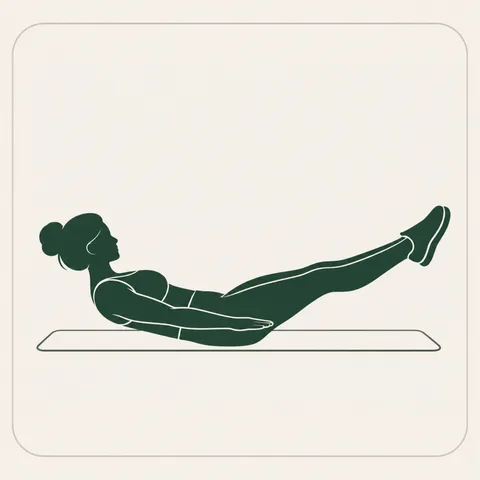
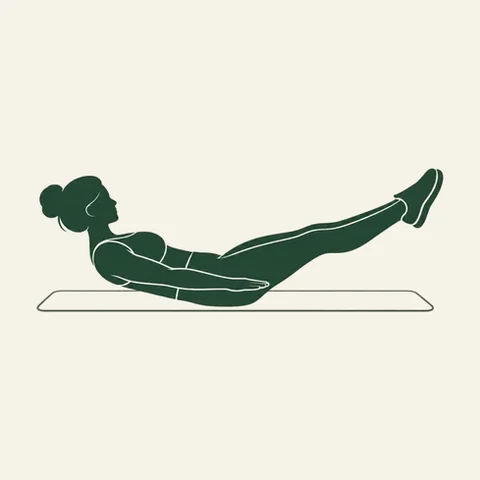
Offline and Resume apply instantly with a confirmation; clean square exercise pictures
Claude-Session: https://claude.ai/code/session_01QjyzJbQJbCaLZTFvkX9yb6

diff --git a/index.html b/index.html
@@ -1111,7 +1111,7 @@ trainingGuides['standing dumbbell overhead press']={areas:['shoulders','arms','c
 trainingGuides['one-arm dumbbell row']={areas:['back','arms'],why:'Works your upper back and arms one side at a time.',steps:['Stand with one hand on a sturdy bench, feet staggered and knees soft. Keep your back flat.','Let a dumbbell hang from your other hand, then pull it towards your hip, squeezing your shoulder blade back.','Lower slowly. Finish all reps, then switch sides.'],cue:'Keep your hips square and avoid twisting. Stop for back or shoulder discomfort.',url:''};
 trainingGuides['hollow body hold']={areas:['core'],why:'Builds deep core strength and trunk control.',steps:['Lie on your back on a mat, arms by your sides or overhead.','Brace and press your lower back gently into the mat. Lift your shoulders and legs a little off the floor. Higher legs are easier.','Hold while breathing steadily, then lower with control.'],cue:'If your lower back arches or aches, bend your knees or raise your legs higher. Dead bug is the easier choice.',url:''};
 trainingGuides['plank shoulder taps']={areas:['core','shoulders'],why:'Trains core stability while your arms move.',steps:['Start in a high plank, hands under shoulders, feet a little wider than hip width.','Brace, then tap one hand to the opposite shoulder without rocking your hips.','Return the hand and tap the other side. Go slowly.'],cue:'Make it easier with your hands on a bench or wall. Stop for wrist, shoulder or back discomfort.',url:''};
-const trainingArtImg={'standing dumbbell overhead press':'assets/training/overhead-press.webp','one-arm dumbbell row':'assets/training/one-arm-row.webp','side kicks':'assets/training/side-kicks.webp','leg press':'assets/training/leg-press.webp','hollow body hold':'assets/training/hollow-hold.webp','plank shoulder taps':'assets/training/plank-shoulder-taps.webp','cable crunch':'assets/training/cable-crunch.webp'};
+const trainingArtImg={'chest press':'assets/training/chest-press.webp','chest-supported row':'assets/training/chest-supported-row.webp','dead bug':'assets/training/dead-bug.webp','standing dumbbell overhead press':'assets/training/overhead-press.webp','one-arm dumbbell row':'assets/training/one-arm-row.webp','side kicks':'assets/training/side-kicks.webp','leg press':'assets/training/leg-press.webp','hollow body hold':'assets/training/hollow-hold.webp','plank shoulder taps':'assets/training/plank-shoulder-taps.webp','cable crunch':'assets/training/cable-crunch.webp'};
 const trainingArt={
  'leg press':['lower-a',45,280,440,325],'db romanian deadlift':['lower-a',540,250,435,350],'glute bridge':['lower-a',45,750,440,275],'seated leg curl':['lower-a',550,700,410,325],'calf raises':['lower-a',400,1060,340,415],
  'lat pulldown':['upper-a',55,270,430,365],'seated row':['upper-a',540,270,440,365],'chest press':['upper-a',50,720,440,390],'lateral raise':['upper-a',540,720,430,390],'dead bug':['upper-a',100,1190,820,245],
@@ -1367,7 +1367,7 @@ app.addEventListener('click',e=>{const b=e.target.closest('[data-action^="missio
 .app .wx2 .wx2-thumb{width:72px;flex:none;border-radius:12px;background:#f6f2e6;border:1px solid rgba(41,58,47,.12);overflow:hidden}.app .wx2 .wx2-thumb svg{width:100%;height:auto;display:block}
 .app .workout-add{border:1px dashed var(--border)!important;border-radius:16px!important;background:transparent!important;box-shadow:none!important}
 .app .workout-add>summary{color:var(--accent);font-weight:600}
-@media(max-width:359px){.app .wx2 .wx2-steps{grid-template-columns:1fr}.app .wx2 .wx2-hero h1{font-size:26px}.app .wx2 .wx2-art{width:104px}}
+@media(max-width:359px){.app .wx2 .wx2-steps{grid-template-columns:1fr}.app .wx2 .wx2-hero h1{font-size:26px}.app .wx2 .wx2-art{width:104px;height:104px}}
 @media(prefers-reduced-motion:reduce){.app .wx2 .wx2-set{transition:none}}
 
 /* WX3 (v121): training v2 */
@@ -1386,7 +1386,7 @@ app.addEventListener('click',e=>{const b=e.target.closest('[data-action^="missio
 .app .wx3 .wx3-rvs{display:flex;flex-direction:column;gap:8px;margin-bottom:10px}
 .app .wx3 .wx3-rv{display:flex!important;justify-content:space-between;align-items:center;gap:10px;width:100%!important;min-height:56px;padding:10px 14px!important;border-radius:14px!important;border:1px solid var(--border)!important;background:var(--card)!important;color:var(--text)!important;text-align:left;box-shadow:none!important}
 .app .wx3 .wx3-rv span{display:flex;flex-direction:column;gap:2px;min-width:0}.app .wx3 .wx3-rv b{font-weight:600;font-size:15px}.app .wx3 .wx3-rv small{font-size:13px;color:var(--muted)}.app .wx3 .wx3-rv em{font-style:normal;font-size:13px;color:var(--muted);white-space:nowrap}
-.app .wx2-art img{width:100%;height:auto;max-height:136px;object-fit:contain;display:block}
+.app .wx2 .wx2-art{width:132px;height:132px;aspect-ratio:1;align-self:center;border:0;background:#f5f1e8;border-radius:16px}.app .wx2-art img{width:100%;height:100%;object-fit:contain;display:block}
 .app .exercise-soft-art img{max-width:100%;height:auto;display:block}
 .wx3-rest{position:fixed;inset:0;z-index:2147483000;display:flex;flex-direction:column;align-items:center;justify-content:center;gap:22px;padding:24px;background:#f4f1e8;color:#26352c;font-family:system-ui,-apple-system,sans-serif}
 .wx3-rest.dark{background:#101c16;color:#e6ebe3}
@@ -1427,6 +1427,7 @@ app.addEventListener('click',e=>{const b=e.target.closest('[data-action^="missio
 .app .wx3-week .lbl{font-size:13px;color:var(--muted);white-space:nowrap}.app .wx3-week .val{font-size:18px;font-weight:600;white-space:nowrap;margin-bottom:4px}.app .wx3-week .val small{font-size:13px;font-weight:400;color:var(--muted)}
 .app .wx3-seg{display:flex;gap:4px}.app .wx3-seg i{flex:1;height:6px;border-radius:3px;background:var(--border)}.app .wx3-seg i.on{background:var(--accent)}
 .app .wx2-xp{white-space:nowrap;flex:none}.app .wx3-hc-top h2{min-width:0}
+.wx3-toast{position:fixed;left:50%;top:max(14px,env(safe-area-inset-top));transform:translateX(-50%);z-index:2147482000;max-width:calc(100vw - 32px);padding:12px 18px;border-radius:999px;background:#244b3b;color:#fffdf8;font:600 14px/1.3 system-ui,sans-serif;box-shadow:0 6px 20px rgba(0,0,0,.25);text-align:center}.app.dark~.wx3-toast,body:has(.app.dark) .wx3-toast{background:#b9c9b4;color:#14221b}
 .app .wx3-duo{display:flex;gap:10px}.app .wx3-duo .concept-row{flex:1;margin:0 0 4px;min-width:0}
 @media(prefers-reduced-motion:reduce){.wx3-ring .fg{transition:none}}
 `;document.head.append(st)}
@@ -1451,6 +1452,7 @@ const wx3Hold=n=>/hold|\(seconds\)/i.test(n),wx3Bw=n=>/^(Dead bug|Hollow body ho
 const wx3Fmt=n=>String(Math.round(Number(n)*10)/10);
 function wx3Compile(sets,name){if(!sets.length)return '';const unit=wx3Hold(name||'')?' s':'',loads=sets.map(s=>s.load==null||s.load===''||Number.isNaN(Number(s.load))?null:Number(s.load));if(loads.every(l=>l===loads[0]))return (loads[0]==null?'':wx3Fmt(loads[0])+' kg · ')+sets.map(s=>s.reps).join(', ')+unit;return sets.map((s,k)=>(loads[k]==null?'':wx3Fmt(loads[k])+' × ')+s.reps).join(', ')+unit}
 function wx3Val(d,i,j){const key=i+'-'+j;if(d.values[key])return d.values[key];const pk=i+'-'+(j-1);if(j>0&&d.values[pk])return {...d.values[pk]};const last=previousWorkoutSet(wx3Items(d)[i][0]);return {reps:last?String(last.reps):'',load:last&&last.load!=null?String(last.load):''}}
+document.addEventListener('raikiba-offline-changed',ev=>{try{const on=!!(ev.detail&&ev.detail.paused);render();document.querySelectorAll('.wx3-toast').forEach(x=>x.remove());const t=document.createElement('div');t.className='wx3-toast';t.setAttribute('role','status');t.textContent=on?'Offline mode on. Training is paused.':'Back online. Training is on again.';document.body.append(t);setTimeout(()=>t.remove(),2600)}catch(e){console.error(e)}});
 const wx3Pause=()=>{try{const M=window.LevelUpMissions,t=C.date();return (M&&M.load&&(M.load().pauses||[]).find(p=>p.from<=t&&(!p.to||p.to>=t)))||null}catch(e){return null}};
 const wx3RestOff=()=>{try{return localStorage.getItem('raikiba-rest-off')==='1'}catch(e){return false}};
 let wx3RestState=null,wx3RoutineTab=0,wx3ProgressTab=0;
@@ -1503,8 +1505,8 @@ function nextFoundation(){const d=activeDraft();if(d)return d.plan;const last=tr
 function conceptRow(title,copy,destination){return `<button type="button" class="concept-row" data-action="open" data-view="${destination}"><span><strong>${title}</strong>${copy?`<small>${copy}</small>`:''}</span><span aria-hidden="true">→</span></button>`}
 function conceptXP(){const x=C.trainingXP(state);return `<div class="concept-xp"><div><span>Level ${x.level}</span><span>${x.towards} / 100 XP</span></div><div class="concept-meter" role="progressbar" aria-label="Training XP towards next level" aria-valuemin="0" aria-valuemax="100" aria-valuenow="${x.towards}"><i style="width:${x.towards}%"></i></div></div>`}
 function conceptTrainingCard(home=false){const d=activeDraft(),next=nextFoundation(),f=foundationDrafts[next],name=f.title,n=d?(d.v===2?wx3Items(d).length:3):(kneeActive()?3:4),index=d?missionPosition(d):0,P=wx3Pause();if(home){const copy=d?(index>=n?'Review your recorded sets and finish.':`Exercise ${index+1} of ${n} · ${escape(workoutItems(d)[index][0])}`):'Choose your workout or record walking and cardio.';return `<section class="concept-feature"><p class="micro">${d?'IN PROGRESS':'TRAINING'}</p><h2>${d?'Continue '+name:'Your next training session'}</h2><p>${copy}</p>${open(d?'Resume workout':'Open training',d?'workout-active':'training')}</section>`}
- if(d)return `<section class="wx3-card"><p class="wx3-eye"><span>IN PROGRESS</span></p><h2>${name}</h2><p class="sub">${escape(f.purpose)} · ${index>=n?'Review and finish':`Exercise ${index+1} of ${n}, ${escape(workoutItems(d)[index][0])}`}</p>${open('Resume workout','workout-active').replace(/class="/,'class="wx3-go ')}</section>`;
- if(P){const why=({holiday:'Holiday',injury:'Injury'})[P.reason]||'Break';return `<section class="wx3-card paused"><p class="wx3-eye"><span>PAUSED</span></p><h2>Training Paused</h2><p class="sub">(${why}). Your progress and rewards are kept.</p><button type="button" class="wx3-go" disabled>Start workout</button></section>`}
+ if(d&&!P)return `<section class="wx3-card"><p class="wx3-eye"><span>IN PROGRESS</span></p><h2>${name}</h2><p class="sub">${escape(f.purpose)} · ${index>=n?'Review and finish':`Exercise ${index+1} of ${n}, ${escape(workoutItems(d)[index][0])}`}</p>${open('Resume workout','workout-active').replace(/class="/,'class="wx3-go ')}</section>`;
+ if(P){const why=({holiday:'Holiday',injury:'Injury'})[P.reason]||'Break';return `<section class="wx3-card paused"><p class="wx3-eye"><span>PAUSED</span></p><h2>Training Paused</h2><p class="sub">(${why}). Your progress and rewards are kept.${d?' Your workout in progress is saved.':''}</p><button type="button" class="wx3-go" disabled>Start workout</button></section>`}
  return `<section class="wx3-card"><p class="wx3-eye"><span>NEXT UP</span><span class="wx2-xp">+30 XP</span></p><h2>${name}</h2><p class="sub">${escape(f.purpose)} · ${n} exercises · 3 sets each</p>${btn('Start workout','workout-start',`data-plan="${next}"`).replace(/class="/,'class="wx3-go ')}</section>`}
 const beforeConceptMain=mainView;
 mainView=function(){

diff --git a/service-worker.js b/service-worker.js
@@ -1,4 +1,4 @@
-const CACHE='bloom-zen-v1-candidate-20261031-looks-prizes-sync-path-ai-v121-training'; const FILES=['./assets/prizes/r01.png','./assets/prizes/r02.png','./assets/prizes/r03.png','./assets/prizes/r04.png','./assets/prizes/r05.png','./assets/prizes/r06.png','./assets/prizes/s07.png','./assets/prizes/s08.png','./assets/prizes/s09.png','./assets/prizes/s10.png','./assets/prizes/s11.png','./assets/prizes/s12.png','./assets/prizes/s14.png','./assets/prizes/m02.png','./assets/prizes/m03.png','./assets/prizes/m04.png','./assets/prizes/m06.png','./assets/prizes/m07.png','./assets/prizes/m08.png','./assets/prizes/m09.png','./prizes/backup.js','./prizes/catalog.js','./prizes/core.js','./prizes/ui.js','./prizes/prizes.css','./assets/prizes/art-01.png','./assets/prizes/art-02.png','./assets/prizes/art-03.png','./assets/prizes/art-04.png','./assets/prizes/art-05.png','./assets/prizes/art-06.png','./assets/prizes/art-07.png','./assets/prizes/art-08.png','./assets/prizes/art-09.png','./assets/prizes/art-10.png','./assets/prizes/art-11.png','./assets/prizes/art-12.png','./assets/companion/awake.webp','./assets/companion/happy.webp','./assets/companion/sleep.webp','./assets/companion/moss-buddy.png','./','./index.html','./bloom-core.js','./levelup-synonyms.js','./levelup-missions.js','./levelup-plan.js','./levelup-today.js','./levelup-path.js','./levelup-ai-receipt.js','./levelup-ai-recipe.js','./levelup-picture-prompt.js','./raikiba-sync.js','./receipt-parser.js','./receipt-image.js','./receipt-invoice.js','./recipe-drafts.js','./recipe-moods.js','./recipe-response.js','./recipe-media.js','./vendor/ocr/tesseract.min.js','./vendor/ocr/worker.min.js',...['mapo-tofu','doenjang-stew','garlic-tofu-bowl','coconut-seafood-noodles','kimchi-egg-rice','dumpling-soup','tuna-mayo-rice','garlic-edamame'].map(id=>'./assets/recipes/'+id+'.webp'),...['date-brows-1.jpg', 'date-brows-2.jpg', 'date-brows-3.jpg', 'date-eyes-1.jpg', 'date-eyes-2.jpg', 'date-eyes-3.jpg', 'date-eyes-4.jpg', 'date-hair-1.jpg', 'date-hair-2.jpg', 'date-hair-3.jpg', 'date-hair-4.jpg', 'date-hero.jpg', 'date-lips-1.jpg', 'date-lips-2.jpg', 'date-lips-3.jpg', 'date-lips-4.jpg', 'date-skin-1.jpg', 'date-skin-2.jpg', 'date-skin-3.jpg', 'date-skin-4.jpg', 'event-brows-1.jpg', 'event-brows-2.jpg', 'event-brows-3.jpg', 'event-eyes-1.jpg', 'event-eyes-2.jpg', 'event-eyes-3.jpg', 'event-hair-1.jpg', 'event-hair-2.jpg', 'event-hair-3.jpg', 'event-hero.jpg', 'event-lips-1.jpg', 'event-lips-2.jpg', 'event-lips-3.jpg', 'event-skin-1.jpg', 'event-skin-2.jpg', 'event-skin-3.jpg', 'lazy-brows-1.jpg', 'lazy-eyes-1.jpg', 'lazy-eyes-2.jpg', 'lazy-hair-1.jpg', 'lazy-hair-2.jpg', 'lazy-hair-3.jpg', 'lazy-hero.jpg', 'lazy-lips-1.jpg', 'lazy-skin-1.jpg', 'lazy-skin-2.jpg', 'office-brows-1.jpg', 'office-brows-2.jpg', 'office-brows-3.jpg', 'office-eyes-1.jpg', 'office-eyes-2.jpg', 'office-eyes-3.jpg', 'office-hair-1.jpg', 'office-hair-2.jpg', 'office-hair-3.jpg', 'office-hero.jpg', 'office-lips-1.jpg', 'office-lips-2.jpg', 'office-skin-1.jpg', 'office-skin-2.jpg', 'office-skin-3.jpg', 'street-brows-1.jpg', 'street-brows-2.jpg', 'street-eyes-1.jpg', 'street-eyes-2.jpg', 'street-hair-1.jpg', 'street-hair-2.jpg', 'street-hair-3.jpg', 'street-hero.jpg', 'street-lips-1.jpg', 'street-skin-1.jpg', 'street-skin-2.jpg', 'street-skin-3.jpg', 'glass-hero.jpg', 'glass-base-1.jpg', 'glass-base-2.jpg', 'glass-spf-1.jpg', 'glass-cc-1.jpg', 'glass-blush-1.jpg', 'glass-lips-1.jpg', 'cherry-hero.jpg', 'cherry-spf-1.jpg', 'cherry-cushion-1.jpg', 'cherry-brows-1.jpg', 'cherry-lashes-1.jpg', 'cherry-lashes-2.jpg', 'cherry-blush-1.jpg', 'cherry-lips-1.jpg', 'grunge-hero.jpg', 'grunge-spf-1.jpg', 'grunge-base-1.jpg', 'grunge-liner-1.jpg', 'grunge-liner-2.jpg', 'grunge-lashes-1.jpg', 'grunge-lips-1.jpg', 'grunge-lips-2.jpg', 'grunge-hair-1.jpg', 'clean-hero.jpg', 'clean-spf-1.jpg', 'clean-hair-1.jpg', 'clean-hair-2.jpg', 'clean-brows-1.jpg', 'clean-lashes-1.jpg', 'clean-powder-1.jpg', 'clean-lips-1.jpg', 'strawberry-hero.jpg', 'strawberry-spf-1.jpg', 'strawberry-cushion-1.jpg', 'strawberry-blush-1.jpg', 'strawberry-lashes-1.jpg', 'strawberry-lashes-2.jpg', 'strawberry-lips-1.jpg', 'strawberry-powder-1.jpg', 'redbean-hero.jpg', 'redbean-spf-1.jpg', 'redbean-cushion-1.jpg', 'redbean-brows-1.jpg', 'redbean-shadow-1.jpg', 'redbean-eyes-1.jpg', 'redbean-eyes-2.jpg', 'redbean-lips-1.jpg', 'redbean-lips-2.jpg', 'redbean-hair-1.jpg', 'glass-hair-1.jpg', 'cherry-hair-1.jpg', 'strawberry-hair-1.jpg'].map(f=>'./photos/'+f),'./assets/fonts/lora-400.woff2','./assets/fonts/lora-500.woff2','./assets/fonts/lora-600.woff2','./manifest.webmanifest','./icon-192.png','./icon-512.png','./assets/training/seated-leg-press-2d.png','./assets/training/soft-lower-a.png','./assets/training/soft-upper-a.png','./assets/training/soft-lower-b.png','./assets/training/soft-upper-b.png','./assets/guides/glass-guide.png','./assets/guides/strawberry-guide.png','./assets/guides/grunge-guide.png','./assets/guides/cherry-guide.png','./assets/guides/clean-guide.png','./assets/guides/redbean-guide.png'];
+const CACHE='bloom-zen-v1-candidate-20261031-looks-prizes-sync-path-ai-v122-training'; const FILES=['./assets/prizes/r01.png','./assets/prizes/r02.png','./assets/prizes/r03.png','./assets/prizes/r04.png','./assets/prizes/r05.png','./assets/prizes/r06.png','./assets/prizes/s07.png','./assets/prizes/s08.png','./assets/prizes/s09.png','./assets/prizes/s10.png','./assets/prizes/s11.png','./assets/prizes/s12.png','./assets/prizes/s14.png','./assets/prizes/m02.png','./assets/prizes/m03.png','./assets/prizes/m04.png','./assets/prizes/m06.png','./assets/prizes/m07.png','./assets/prizes/m08.png','./assets/prizes/m09.png','./prizes/backup.js','./prizes/catalog.js','./prizes/core.js','./prizes/ui.js','./prizes/prizes.css','./assets/prizes/art-01.png','./assets/prizes/art-02.png','./assets/prizes/art-03.png','./assets/prizes/art-04.png','./assets/prizes/art-05.png','./assets/prizes/art-06.png','./assets/prizes/art-07.png','./assets/prizes/art-08.png','./assets/prizes/art-09.png','./assets/prizes/art-10.png','./assets/prizes/art-11.png','./assets/prizes/art-12.png','./assets/companion/awake.webp','./assets/companion/happy.webp','./assets/companion/sleep.webp','./assets/companion/moss-buddy.png','./','./index.html','./bloom-core.js','./levelup-synonyms.js','./levelup-missions.js','./levelup-plan.js','./levelup-today.js','./levelup-path.js','./levelup-ai-receipt.js','./levelup-ai-recipe.js','./levelup-picture-prompt.js','./raikiba-sync.js','./receipt-parser.js','./receipt-image.js','./receipt-invoice.js','./recipe-drafts.js','./recipe-moods.js','./recipe-response.js','./recipe-media.js','./vendor/ocr/tesseract.min.js','./vendor/ocr/worker.min.js',...['mapo-tofu','doenjang-stew','garlic-tofu-bowl','coconut-seafood-noodles','kimchi-egg-rice','dumpling-soup','tuna-mayo-rice','garlic-edamame'].map(id=>'./assets/recipes/'+id+'.webp'),...['date-brows-1.jpg', 'date-brows-2.jpg', 'date-brows-3.jpg', 'date-eyes-1.jpg', 'date-eyes-2.jpg', 'date-eyes-3.jpg', 'date-eyes-4.jpg', 'date-hair-1.jpg', 'date-hair-2.jpg', 'date-hair-3.jpg', 'date-hair-4.jpg', 'date-hero.jpg', 'date-lips-1.jpg', 'date-lips-2.jpg', 'date-lips-3.jpg', 'date-lips-4.jpg', 'date-skin-1.jpg', 'date-skin-2.jpg', 'date-skin-3.jpg', 'date-skin-4.jpg', 'event-brows-1.jpg', 'event-brows-2.jpg', 'event-brows-3.jpg', 'event-eyes-1.jpg', 'event-eyes-2.jpg', 'event-eyes-3.jpg', 'event-hair-1.jpg', 'event-hair-2.jpg', 'event-hair-3.jpg', 'event-hero.jpg', 'event-lips-1.jpg', 'event-lips-2.jpg', 'event-lips-3.jpg', 'event-skin-1.jpg', 'event-skin-2.jpg', 'event-skin-3.jpg', 'lazy-brows-1.jpg', 'lazy-eyes-1.jpg', 'lazy-eyes-2.jpg', 'lazy-hair-1.jpg', 'lazy-hair-2.jpg', 'lazy-hair-3.jpg', 'lazy-hero.jpg', 'lazy-lips-1.jpg', 'lazy-skin-1.jpg', 'lazy-skin-2.jpg', 'office-brows-1.jpg', 'office-brows-2.jpg', 'office-brows-3.jpg', 'office-eyes-1.jpg', 'office-eyes-2.jpg', 'office-eyes-3.jpg', 'office-hair-1.jpg', 'office-hair-2.jpg', 'office-hair-3.jpg', 'office-hero.jpg', 'office-lips-1.jpg', 'office-lips-2.jpg', 'office-skin-1.jpg', 'office-skin-2.jpg', 'office-skin-3.jpg', 'street-brows-1.jpg', 'street-brows-2.jpg', 'street-eyes-1.jpg', 'street-eyes-2.jpg', 'street-hair-1.jpg', 'street-hair-2.jpg', 'street-hair-3.jpg', 'street-hero.jpg', 'street-lips-1.jpg', 'street-skin-1.jpg', 'street-skin-2.jpg', 'street-skin-3.jpg', 'glass-hero.jpg', 'glass-base-1.jpg', 'glass-base-2.jpg', 'glass-spf-1.jpg', 'glass-cc-1.jpg', 'glass-blush-1.jpg', 'glass-lips-1.jpg', 'cherry-hero.jpg', 'cherry-spf-1.jpg', 'cherry-cushion-1.jpg', 'cherry-brows-1.jpg', 'cherry-lashes-1.jpg', 'cherry-lashes-2.jpg', 'cherry-blush-1.jpg', 'cherry-lips-1.jpg', 'grunge-hero.jpg', 'grunge-spf-1.jpg', 'grunge-base-1.jpg', 'grunge-liner-1.jpg', 'grunge-liner-2.jpg', 'grunge-lashes-1.jpg', 'grunge-lips-1.jpg', 'grunge-lips-2.jpg', 'grunge-hair-1.jpg', 'clean-hero.jpg', 'clean-spf-1.jpg', 'clean-hair-1.jpg', 'clean-hair-2.jpg', 'clean-brows-1.jpg', 'clean-lashes-1.jpg', 'clean-powder-1.jpg', 'clean-lips-1.jpg', 'strawberry-hero.jpg', 'strawberry-spf-1.jpg', 'strawberry-cushion-1.jpg', 'strawberry-blush-1.jpg', 'strawberry-lashes-1.jpg', 'strawberry-lashes-2.jpg', 'strawberry-lips-1.jpg', 'strawberry-powder-1.jpg', 'redbean-hero.jpg', 'redbean-spf-1.jpg', 'redbean-cushion-1.jpg', 'redbean-brows-1.jpg', 'redbean-shadow-1.jpg', 'redbean-eyes-1.jpg', 'redbean-eyes-2.jpg', 'redbean-lips-1.jpg', 'redbean-lips-2.jpg', 'redbean-hair-1.jpg', 'glass-hair-1.jpg', 'cherry-hair-1.jpg', 'strawberry-hair-1.jpg'].map(f=>'./photos/'+f),'./assets/fonts/lora-400.woff2','./assets/fonts/lora-500.woff2','./assets/fonts/lora-600.woff2','./manifest.webmanifest','./icon-192.png','./icon-512.png','./assets/training/seated-leg-press-2d.png','./assets/training/soft-lower-a.png','./assets/training/soft-upper-a.png','./assets/training/soft-lower-b.png','./assets/training/soft-upper-b.png','./assets/guides/glass-guide.png','./assets/guides/strawberry-guide.png','./assets/guides/grunge-guide.png','./assets/guides/cherry-guide.png','./assets/guides/clean-guide.png','./assets/guides/redbean-guide.png'];
 const HEAVY=/\/assets\/(?:prizes|guides|training)\//;
 self.addEventListener('install',e=>e.waitUntil(caches.open(CACHE).then(c=>c.addAll(FILES.filter(f=>!HEAVY.test(f)))).then(()=>self.skipWaiting())));
 self.addEventListener('activate',e=>e.waitUntil(caches.keys().then(keys=>Promise.all(keys.filter(k=>k.startsWith('bloom-zen-')&&k!==CACHE).map(k=>caches.delete(k)))).then(()=>self.clients.claim())));

diff --git a/levelup-missions.js b/levelup-missions.js
@@ -88,13 +88,14 @@ function logCare(kind){if(!CARE_KINDS.includes(kind))return false;const o=load()
 function unlogCare(kind){const o=load(),d=key(new Date());const before=(o.careActs||[]).length;o.careActs=(o.careActs||[]).filter(a=>!(a.date===d&&a.kind===kind));if(o.careActs.length!==before){save(o);notify();return true}return false}
 function careToday(){const o=load(),d=key(new Date());return new Set((o.careActs||[]).filter(a=>a.date===d).map(a=>a.kind))}
 function recordPhoto(){const o=load(),m=key(new Date()).slice(0,7);if(!o.photoMonths.includes(m)){o.photoMonths.push(m);save(o);notify()}}
-function pause(reason,to){const o=load(),t=key(new Date());if(activePause(o.pauses,t))return false;const end=okDate(to)&&to.slice(0,10)>=t?to.slice(0,10):null;o.pauses.push({from:t,to:end,reason:REASONS.includes(reason)?reason:'other'});save(o);notify();return true}
-function resume(){const o=load(),t=key(new Date()),y=addDays(t,-1);o.pauses=o.pauses.filter(p=>!(p.from<=t&&(!p.to||p.to>=t)&&p.from>=t)).map(p=>(p.from<=t&&(!p.to||p.to>=t))?Object.assign({},p,{to:y}):p);save(o);notify()}
+function pause(reason,to){const o=load(),t=key(new Date());if(activePause(o.pauses,t))return false;const end=okDate(to)&&to.slice(0,10)>=t?to.slice(0,10):null;o.pauses.push({from:t,to:end,reason:REASONS.includes(reason)?reason:'other'});save(o);notify();pauseChanged(true);return true}
+function resume(){const o=load(),t=key(new Date()),y=addDays(t,-1);o.pauses=o.pauses.filter(p=>!(p.from<=t&&(!p.to||p.to>=t)&&p.from>=t)).map(p=>(p.from<=t&&(!p.to||p.to>=t))?Object.assign({},p,{to:y}):p);save(o);notify();pauseChanged(false)}
 function getSeenTier(){return load().seenTier}
 function setSeenTier(t){const o=load();o.seenTier=cleanTier(t);save(o)}
 function getMode(now){const o=load(),t=typeof now==='string'?now:key(now||new Date()),ws=weekStart(t),nm=addDays(ws,7),cur=modeFor(o.modes,ws);return {mode:cur,pending:o.modes[nm]&&o.modes[nm]!==cur?o.modes[nm]:null}}
 /* Any change takes effect next Monday, so a week is always judged by the pace it started with. Choosing the current pace cancels a pending change. */
 function setMode(mode,now){if(!Object.prototype.hasOwnProperty.call(MODES,mode))return null;const o=load(),t=typeof now==='string'?now:key(now||new Date()),ws=weekStart(t),nm=addDays(ws,7),cur=modeFor(o.modes,ws),modes={};for(const k of Object.keys(o.modes))if(k<=ws)modes[k]=o.modes[k];let when='now';if(mode!==cur){modes[nm]=mode;when='next'}o.modes=modes;save(o);notify();return {mode,when,week:ws}}
+function pauseChanged(paused){try{root.document.dispatchEvent(new root.CustomEvent('raikiba-offline-changed',{detail:{paused}}))}catch(e){}}
 function notify(){try{root.document.dispatchEvent(new root.CustomEvent('bloom-training-xp',{detail:{mission:true}}))}catch(e){}}
 function bonus(state){return compute(state,load()).total}
 function status(state){return compute(state,load())}

diff --git a/tests/smoke.js b/tests/smoke.js
@@ -353,6 +353,22 @@ const wxNext = async page => { await page.evaluate(() => [...document.querySelec
     await page.evaluate(s => { s === null ? localStorage.removeItem('bloom-zen-v1') : localStorage.setItem('bloom-zen-v1', s); }, snap);
     await page.reload(); await page.waitForTimeout(4500);
   });
+  await ok('offline: Start offline mode and Resume apply straight away (toast, Today card, Train card) without a reload', async () => {
+    const snap = await page.evaluate(() => localStorage.getItem('bloom-zen-v1'));
+    await page.evaluate(() => document.querySelector('.bottom [data-tab="today"], .bottom [data-page="today"]').click()); await page.waitForTimeout(600);
+    await page.evaluate(() => { const d = document.querySelector('.today-offline'); if (d) d.open = true; document.querySelector('[data-lu-pause]').click(); }); await page.waitForTimeout(700);
+    assert(await page.evaluate(() => !!document.querySelector('.wx3-toast') && /Offline mode on/.test(document.querySelector('.wx3-toast').innerText)), 'no confirmation toast');
+    assert(await page.evaluate(() => /Offline mode active/.test(document.querySelector('#content').innerText)), 'Today card did not switch to offline without a reload');
+    await page.evaluate(() => document.querySelector('.bottom [data-tab="train"]').click()); await page.waitForTimeout(500);
+    assert(await page.evaluate(() => /Training Paused/.test(document.querySelector('#content').innerText) && document.querySelector('#content .wx3-go').disabled), 'Train card not paused');
+    await page.evaluate(() => document.querySelector('.bottom [data-tab="today"], .bottom [data-page="today"]').click()); await page.waitForTimeout(600);
+    await page.evaluate(() => document.querySelector('[data-lu-resume]').click()); await page.waitForTimeout(700);
+    assert(await page.evaluate(() => /Back online/.test((document.querySelector('.wx3-toast') || {}).innerText || '')), 'no resume toast');
+    await page.evaluate(() => document.querySelector('.bottom [data-tab="train"]').click()); await page.waitForTimeout(500);
+    assert(await page.evaluate(() => !/Training Paused/.test(document.querySelector('#content').innerText) && !document.querySelector('#content .wx3-go').disabled), 'Train card still paused after resume');
+    await page.evaluate(s => { s === null ? localStorage.removeItem('bloom-zen-v1') : localStorage.setItem('bloom-zen-v1', s); localStorage.removeItem('levelup-missions-v1'); }, snap);
+    await page.reload(); await page.waitForTimeout(4500);
+  });
   await ok('storage meter is read only and never errors', async () => {
     const r = await page.evaluate(() => { const k = 'bloom-zen-v1'; return { has: !!localStorage.getItem(k), len: (localStorage.getItem(k) || '').length }; });
     assert(r.len < 2 * 1024 * 1024);
